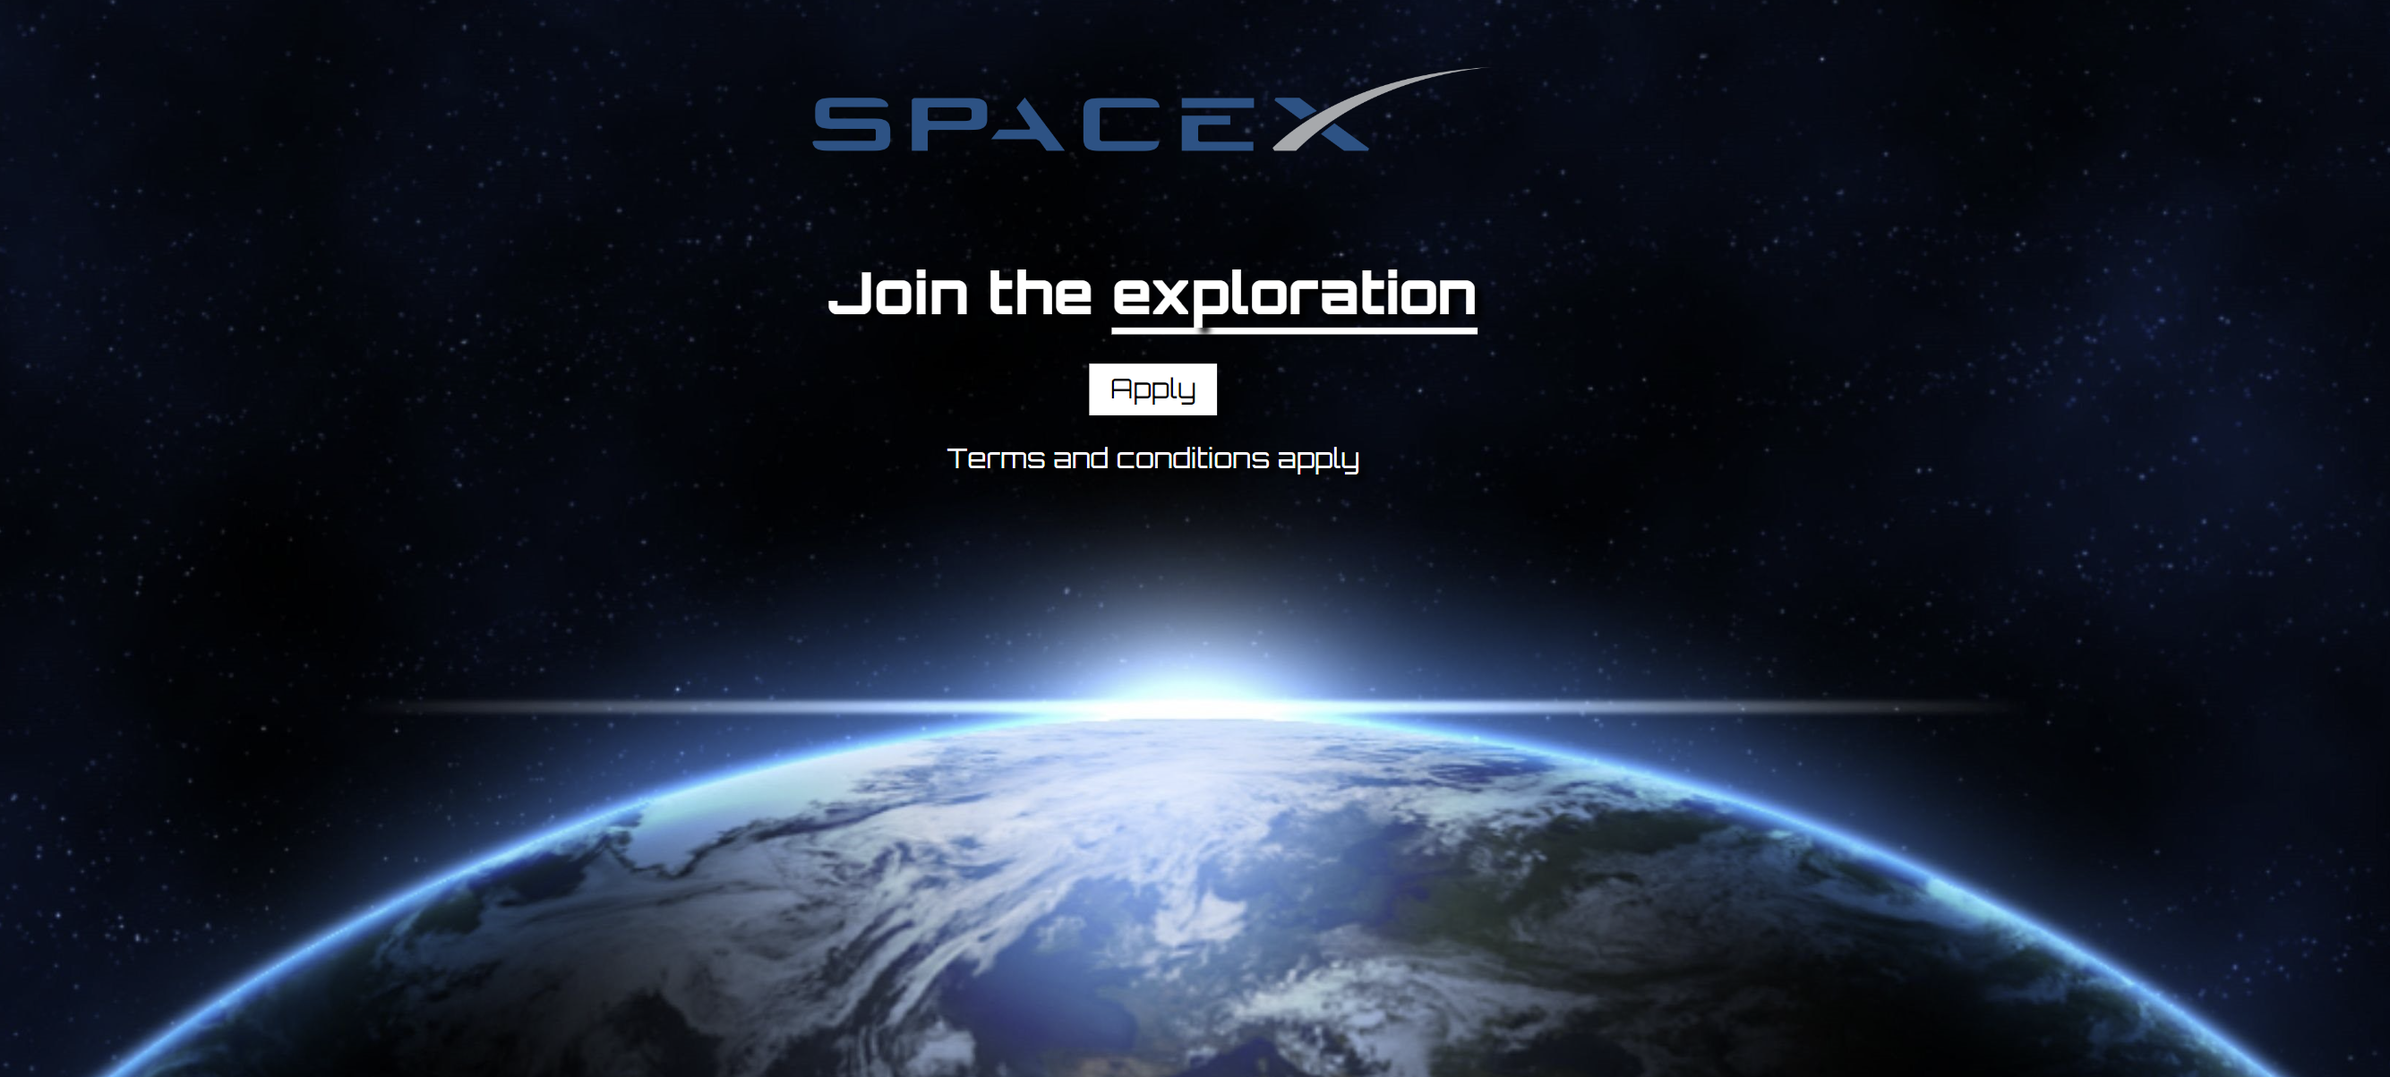
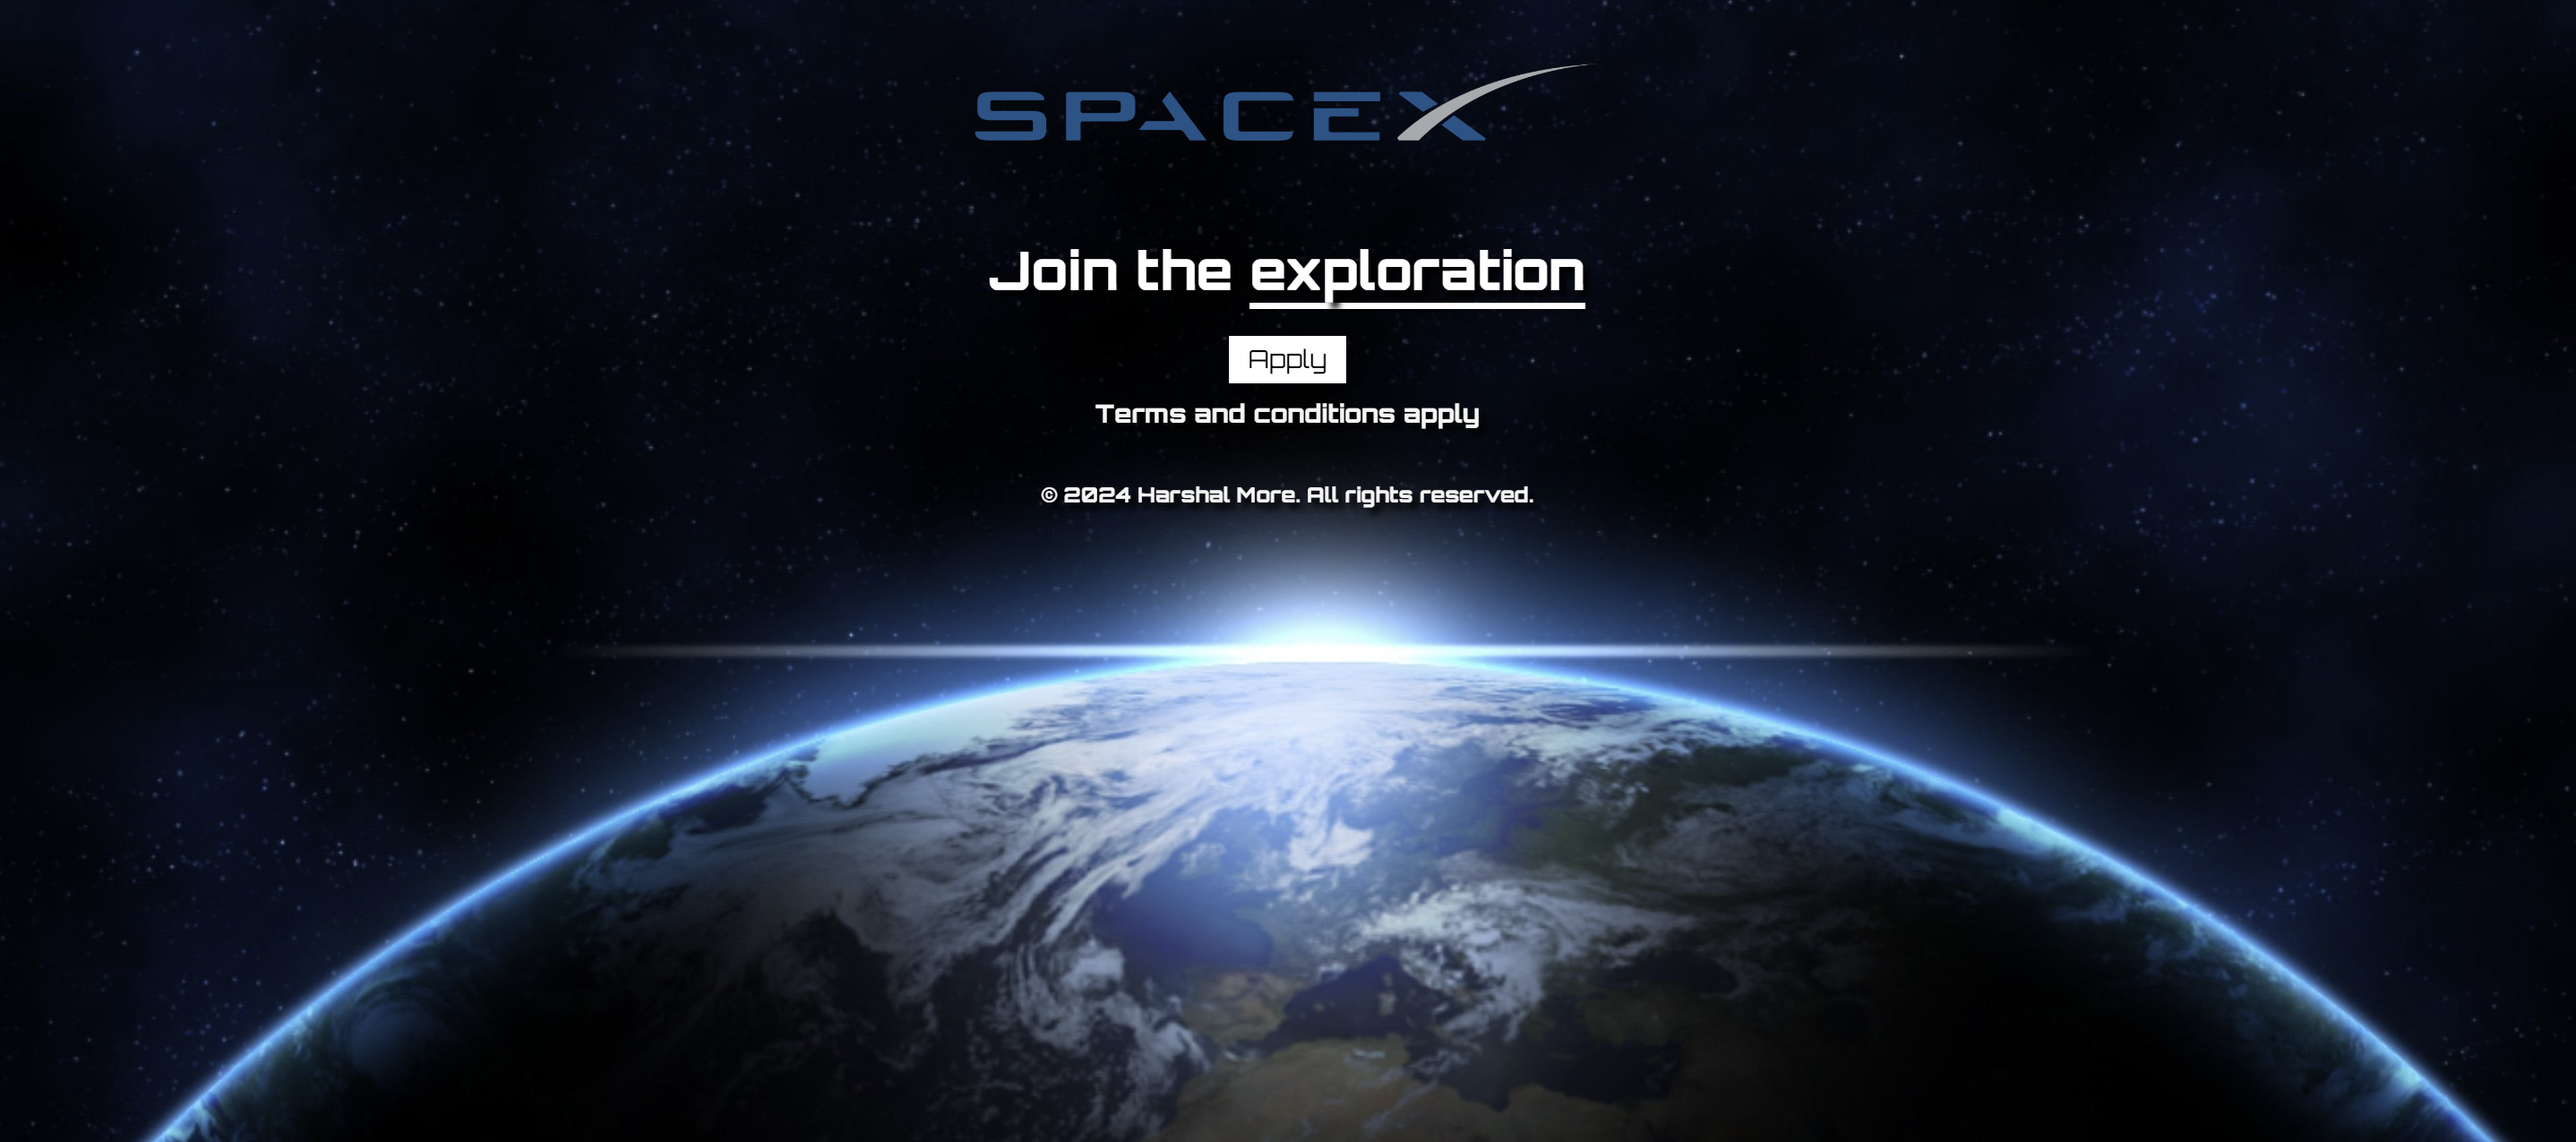
space_exploration ✅

diff --git a/Projects/space_exploration/index.html b/Projects/space_exploration/index.html
@@ -13,6 +13,9 @@
             <p>
                 Terms and conditions apply
             </p>
+            <footer>
+                <p>&copy; 2024 Harshal More. All rights reserved.</p>
+            </footer> 
         </div>
     </body>
 </html>

diff --git a/Projects/space_exploration/styles.css b/Projects/space_exploration/styles.css
@@ -37,9 +37,13 @@ h1{
     border-bottom: 4px solid white;
 }
 
-footer{
+p{
     color: whitesmoke;
     font-weight: bolder;
     margin-top: 10px;
-    font-size: 20px;
+}
+
+footer{
+    margin-top: 35px;
+    font-size: smaller;
 }
